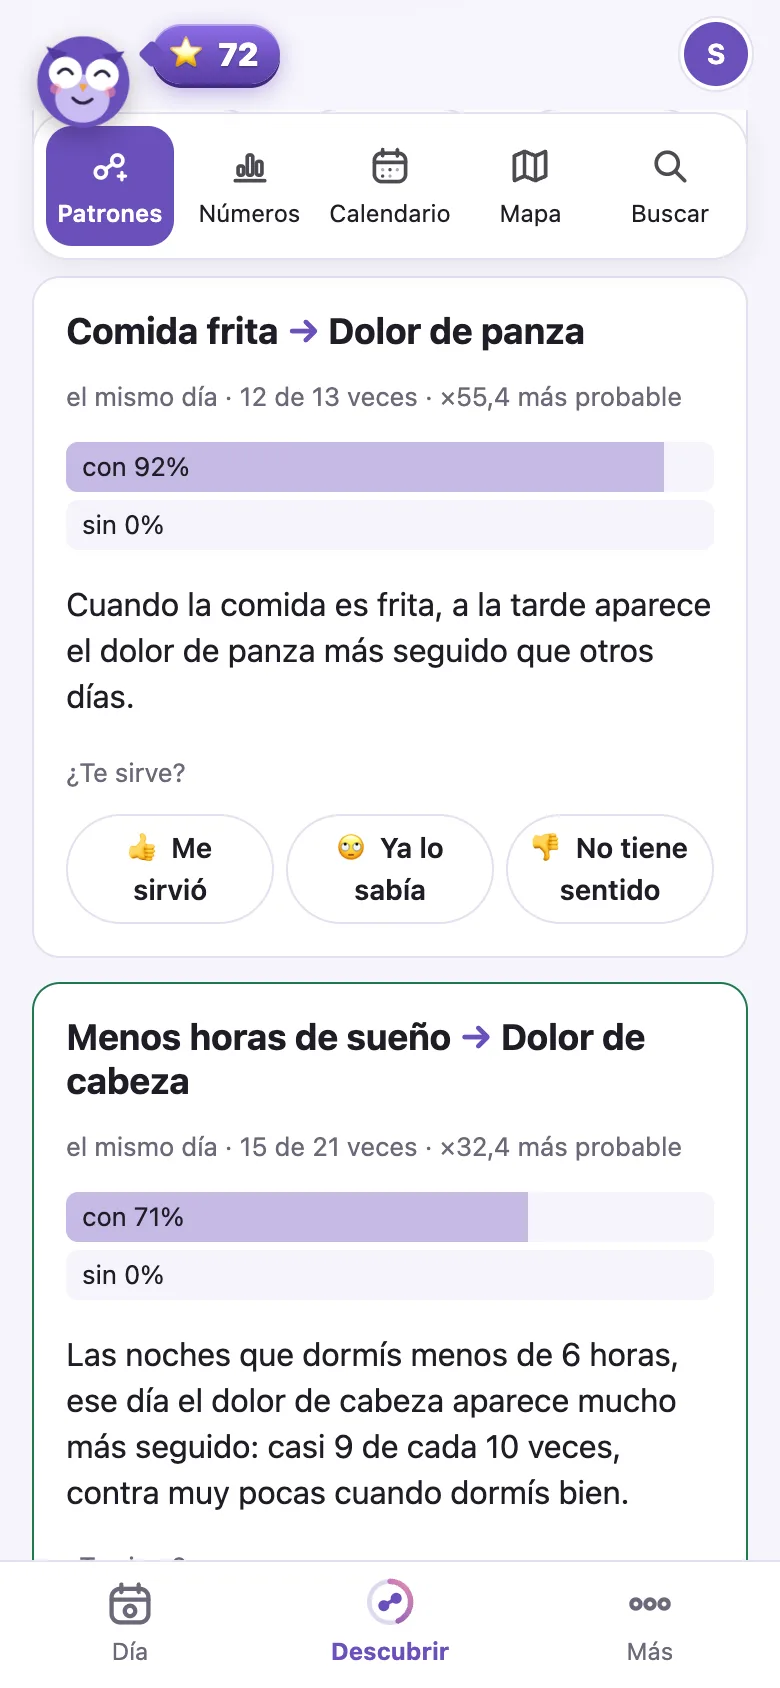
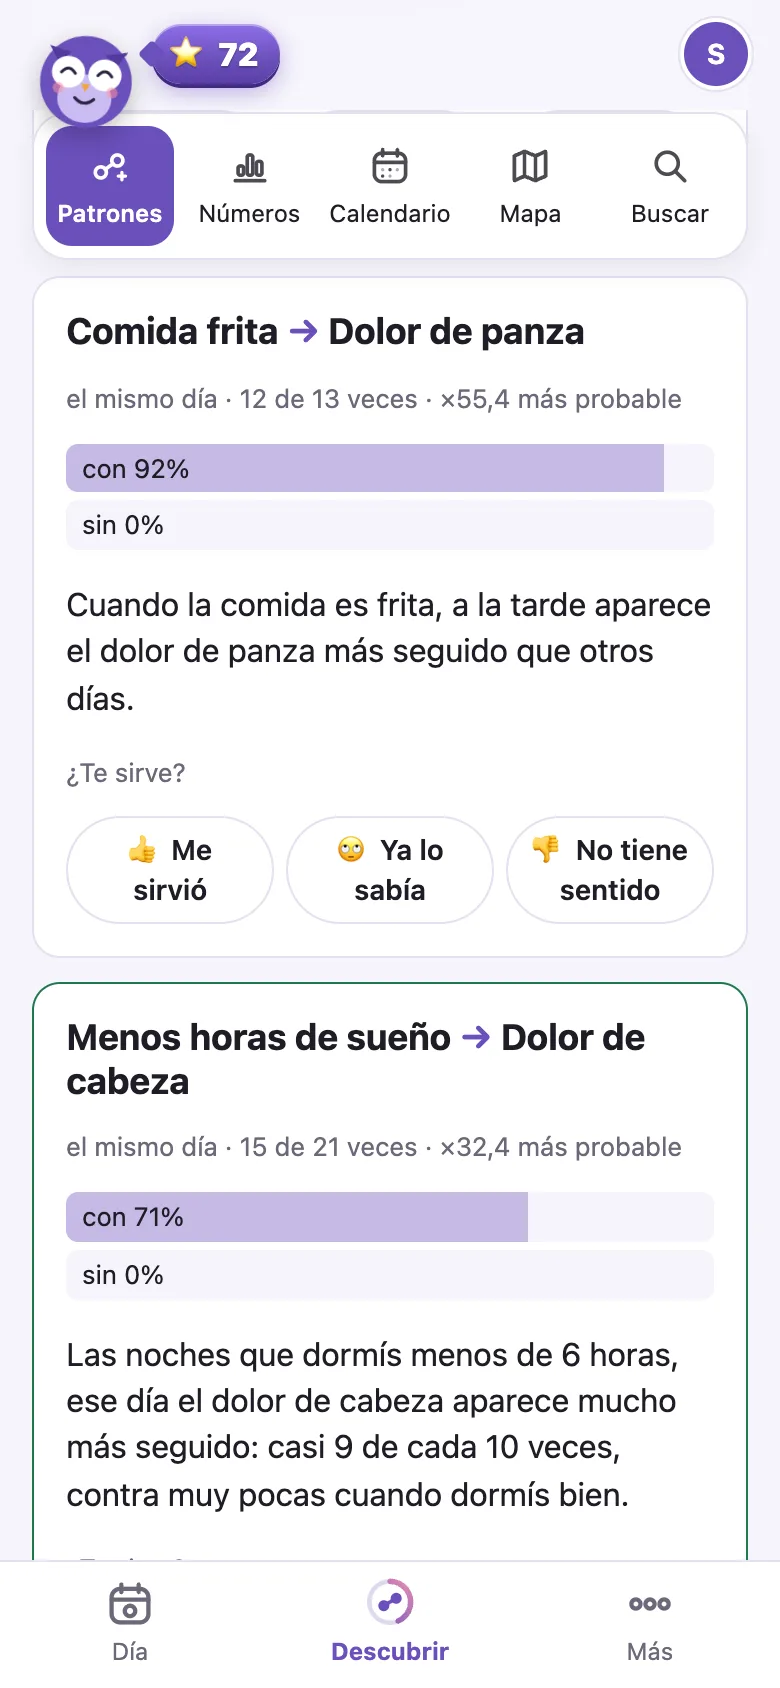
Patrones del ánimo con nombres que se entienden ("Un día peor", "Peor ánimo"); portada de la presentación con la comida frita y el calendario del sueño

diff --git a/apps/web/src/pantallas/Patrones.tsx b/apps/web/src/pantallas/Patrones.tsx
@@ -3,7 +3,7 @@ import { medir, paginaVista } from '../lib/analytics';
 import { useCallback, useEffect, useState } from 'react';
 import { avanceProgreso, nombreRasgo, type Hallazgo, type Persona, type Progreso, type ResultadoAnalisis } from 'shared';
 import { api } from '../api';
-import { locale, t } from '../lib/idioma';
+import { idioma, locale, t } from '../lib/idioma';
 import { useEstado } from '../estado';
 import { Buscar } from './Buscar';
 import { Calendario } from './Calendario';
@@ -71,7 +71,7 @@ export function Patrones({ persona, progreso }: { persona: Persona; progreso: Pr
   const posibles = hallazgos?.filter((h) => !apartados.includes(h) && !firmes.includes(h)) ?? [];
   const tarjeta = (h: Hallazgo) => (
     <article key={h.id} className={`tarjeta hallazgo ${h.estado}`}>
-      <h3>{nombreRasgo(t(h.causa), h.causa_tipo, h.causa_modo)} <span className="flecha">→</span> {nombreRasgo(t(h.efecto), h.efecto_tipo, h.efecto_modo)}</h3>
+      <h3>{nombreRasgo(h.causa, h.causa_tipo, h.causa_modo, idioma())} <span className="flecha">→</span> {nombreRasgo(h.efecto, h.efecto_tipo, h.efecto_modo, idioma())}</h3>
       <p className="suave chico">{cuando(h.desfase_dias)} · {t('{n} de {total} veces', { n: h.soporte, total: h.dias_causa })} · {t('×{n} más probable', { n: h.lift.toLocaleString(locale(), { minimumFractionDigits: 1, maximumFractionDigits: 1 }) })}{h.q_valor > 0.2 ? ` · ${t('puede ser casualidad')}` : ''}</p>
       <div className="barras" aria-label={t('{con}% con, {sin}% sin', { con: Math.round(h.prob_con * 100), sin: Math.round(h.prob_sin * 100) })}>
         <div><span style={{ width: `${h.prob_con * 100}%` }} className="con" />{t('con {n}%', { n: Math.round(h.prob_con * 100) })}</div>

diff --git a/packages/shared/src/index.ts b/packages/shared/src/index.ts
@@ -701,7 +701,15 @@ export type EstadoHallazgo = 'nuevo' | 'confirmado' | 'obvio' | 'descartado';
 export type Modo = 'presente' | 'alto' | 'bajo';
 
 /** "Tomate", "Menos energía", "Me acosté tarde": cómo se nombra un rasgo de un día (alto y bajo, respecto de lo habitual). */
+/** El ánimo dicho como se dice: "Menos cómo me sentí en el día" no se entiende; "Un día peor", sí. */
+const NOMBRES_ANIMO: Record<string, { alto: [string, string]; bajo: [string, string] }> = {
+  'Cómo me sentí en el día': { alto: ['Un día mejor', 'A better day'], bajo: ['Un día peor', 'A worse day'] },
+  'Cómo me siento': { alto: ['Mejor ánimo', 'Better mood'], bajo: ['Peor ánimo', 'Worse mood'] },
+};
+
 export function nombreRasgo(nombre: string, tipo: TipoValor, modo: Modo, idioma: Idioma = 'es'): string {
+  const animo = modo !== 'presente' ? NOMBRES_ANIMO[nombre]?.[modo] : undefined;
+  if (animo) return animo[idioma === 'en' ? 1 : 0];
   if (idioma === 'en') {
     const n = traducirDato(nombre, idioma);
     if (modo === 'presente') return n;

diff --git a/apps/web/movil/presentacion/portada.py b/apps/web/movil/presentacion/portada.py
@@ -1,0 +1,29 @@
+# La portada de la presentación: un teléfono que junta lo más propio de Patty en una sola pantalla: un hallazgo
+# (Comida frita → Dolor de panza) y el calendario del sueño. Se arma recortando dos capturas de verdad (patrones.webp y
+# calendario.webp, de capturar.mjs) y queda en public/presentacion/portada.webp. Uso: python3 portada.py
+from pathlib import Path
+from PIL import Image
+
+aqui = Path(__file__).parent
+dir_ = aqui / '../../public/presentacion'
+pat = Image.open(dir_ / 'patrones.webp').convert('RGB')
+cal = Image.open(dir_ / 'calendario.webp').convert('RGB')
+W, H = pat.size
+fondo = cal.getpixel((8, 1450))
+
+tramos = [
+    (pat, 0, 740),      # arriba, las pestañas y el hallazgo hasta su explicación
+    (pat, 925, 975),    # el final de la tarjeta (sin los botones de "¿Te sirve?")
+    (cal, 425, 1075),   # el calendario del sueño
+    (cal, 1335, 1380),  # el final de su tarjeta
+]
+alto_tramos = sum(b - a for _, a, b in tramos)
+nav = (cal, H - 133, H)
+out = Image.new('RGB', (W, H), fondo)
+y = 0
+for img, a, b in tramos:
+    out.paste(img.crop((0, a, W, b)), (0, y))
+    y += b - a
+out.paste(nav[0].crop((0, nav[1], W, nav[2])), (0, H - 133))
+out.save(dir_ / 'portada.webp', quality=88)
+print('portada.webp', out.size, 'contenido', alto_tramos)
